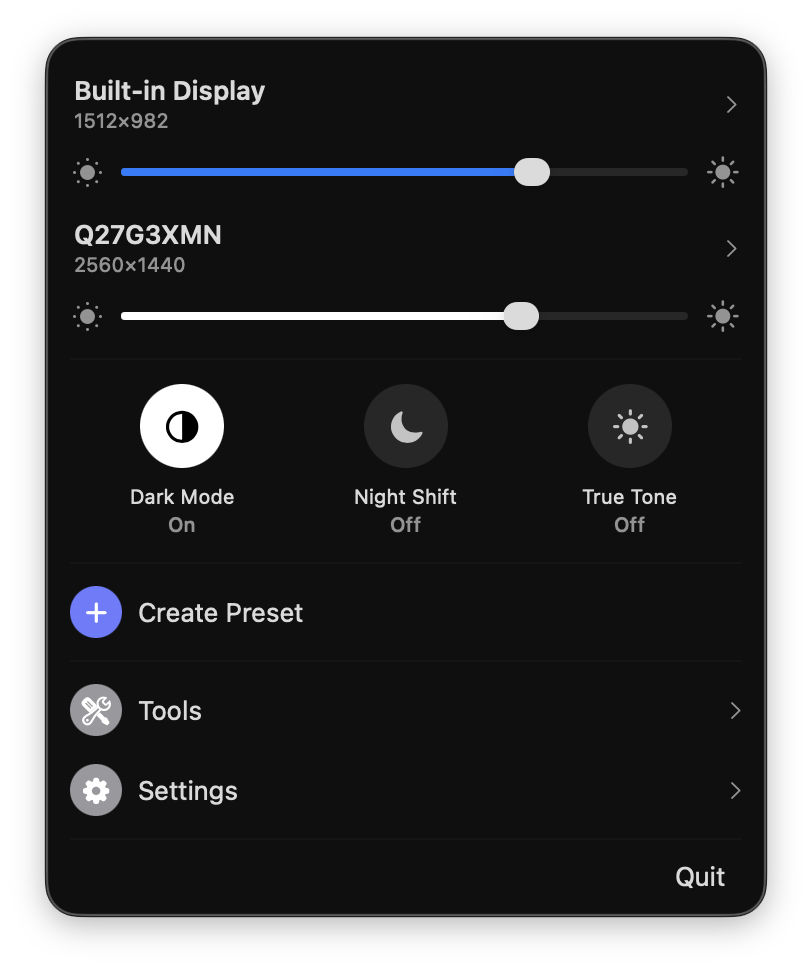
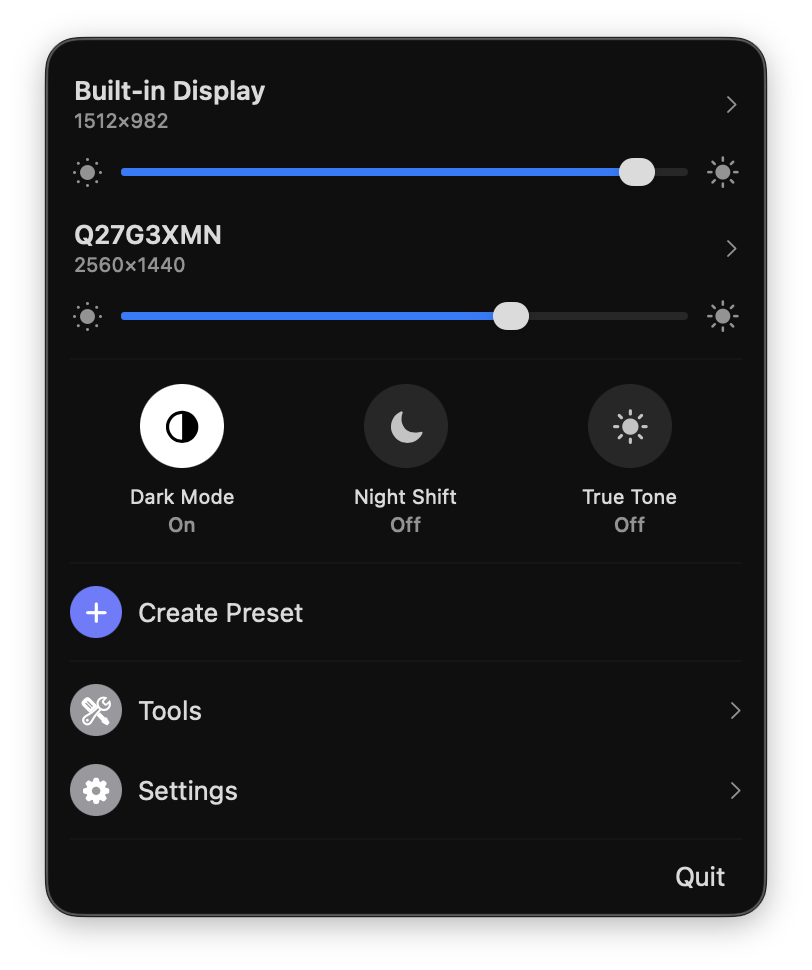
Update screenshot to latest design

Changed region(s): [[0.1539, 0.3093, 0.6773, 0.3402], [0.6158, 0.1546, 0.8313, 0.2165]]

diff --git a/README.md b/README.md
@@ -4,7 +4,7 @@ A native macOS menu bar app for managing external displays: HiDPI resolutions, b
 
 <p align="center"><img src="Crisp/Assets.xcassets/AppIcon.appiconset/icon_256.png" width="128" alt="Crisp icon"></p>
 
-<p align="center"><img src="screenshot.png?v=2" width="406" alt="Crisp menu bar panel"></p>
+<p align="center"><img src="screenshot.png?v=3" width="406" alt="Crisp menu bar panel"></p>
 
 ## Features
 